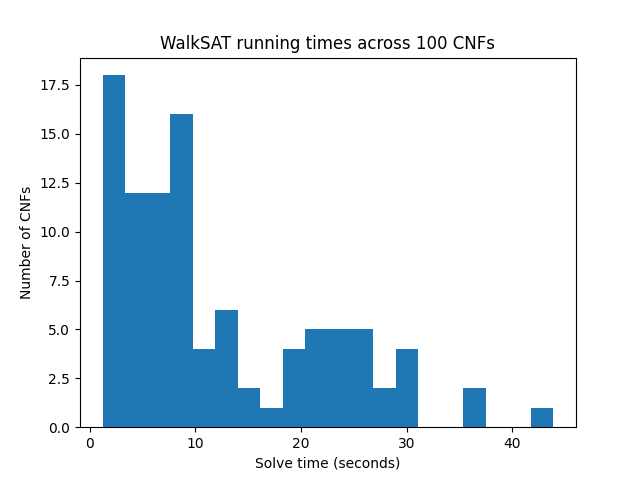
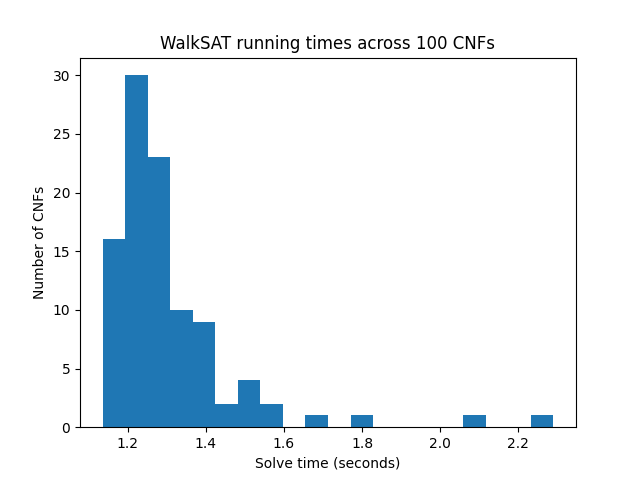
partner 1: upgraded_robot_solver

diff --git a/upgraded_robot_solver.py b/upgraded_robot_solver.py
@@ -1,0 +1,102 @@
+import sys
+import random
+
+# read file
+def parse_cnf(path):
+    num_vars = num_clauses = 0
+    clauses = []
+
+    with open(path) as f:
+        for line in f:
+            line = line.strip()
+            if not line or line.startswith("c"):
+                continue
+            if line.startswith("p"):
+                _, _, v, c = line.split()
+                num_vars = int(v)
+                num_clauses = int(c)
+                continue
+            temp_clauses = [int(x) for x in line.split()]
+            assert temp_clauses[-1] == 0, "line does not end in 0"
+            clauses.append(temp_clauses[:-1])
+    assert len(clauses) == num_clauses, "unequal clauses from header"
+
+    occurences = [[] for _ in range(num_vars + 1)]
+    for i, clause in enumerate(clauses):
+        for lit in clause:
+            occurences[abs(lit)].append(i)
+
+    return num_vars, clauses, occurences
+
+# verify CNF solution
+def walksat(num_vars, clauses, occurences, p=0.1, max_flips=1000000):
+    assignment = [False] + [random.random() < 0.5 for _ in range(num_vars)]
+
+    # Checks singular literal can be satisfied
+    def lit_true(lit):
+        return assignment[abs(lit)] == (lit > 0)
+
+    true_count = [sum(lit_true(l) for l in c) for c in clauses]
+    unsat = {i for i, t in enumerate(true_count) if t == 0}
+
+    # Part 2 making flips "smarter" 
+    def gain(var):
+        g = 0
+        for i in occurences[var]:
+            lit = var if var in clauses[i] else -var
+            if lit_true(lit):
+                if true_count[i] == 1:
+                    g -= 1
+            else:
+                if true_count[i] == 0:
+                    g += 1
+        return g
+    
+    # changes the vars around
+    def flip(var):
+        assignment[var] = not assignment[var]
+        for i in occurences[var]:
+            lit = var if var in clauses[i] else -var
+            if lit_true(lit):
+                true_count[i] += 1
+                if true_count[i] == 1:
+                    unsat.discard(i)
+            else:
+                true_count[i] -= 1
+                if true_count[i] == 0:
+                    unsat.add(i)
+
+    for _ in range(max_flips):
+        if not unsat:
+            return assignment #solved
+        clause = clauses[random.choice(tuple(unsat))]
+        if random.random() < p:
+            var = abs(random.choice(clause))
+        else:
+            variables = [abs(l) for l in clause]
+            scores = [gain(v) for v in variables]
+            best = max(scores)
+            var = random.choice([v for v, s in zip(variables, scores) if s == best])
+        flip(var)
+
+    return None #failed(timed out)
+
+def main():
+    if len(sys.argv) != 2:
+        print("no file asked")
+        sys.exit(1)
+
+    path = sys.argv[1]
+    num_vars, clauses, occurences = parse_cnf(path)
+    result = walksat(num_vars, clauses, occurences)
+
+    if result is None: 
+        print("timed out")
+        return
+
+    print("success")
+    for i in range(1, num_vars + 1):
+        print(f"x{i} = {result[i]}")
+
+if __name__ == "__main__":
+    main()

diff --git a/sweep_prob.py b/sweep_prob.py
@@ -1,0 +1,39 @@
+import glob
+import time
+import csv
+import statistics
+import matplotlib.pyplot as plt
+from upgraded_robot_solver import parse_cnf, walksat
+
+P_VALUES = [0.0, 0.05, 0.1, 0.2, 0.3, 0.4, 0.5, 0.6, 0.8, 1.0]
+RUNS_PER_FILE = 3
+MAX_FLIPS = 20000
+
+paths = sorted(glob.glob("problems/*.cnf"))
+cnfs = [parse_cnf(p) for p in paths]
+print(f"{len(paths)} files")
+
+rows = [] #metrics
+for p in P_VALUES:
+    times, timeouts = [], 0
+    for nv, cl, occ in cnfs:
+        start = time.perf_counter()
+        result = walksat(nv, cl, occ, p=p, max_flips=MAX_FLIPS)
+        times.append(time.perf_counter() - start)
+        if result is None:
+            timeouts += 1
+    mean_t = statistics.mean(times)
+    rows.append((p, mean_t, timeouts, len(times)))
+    print(f"p={p:.2f}: mean {mean_t:.3f}s, timeouts {timeouts}/{len(times)}")
+
+with open("p_sweep.csv", "w", newline="") as f:
+    w = csv.writer(f)
+    w.writerow(["p", "mean_seconds", "timeouts", "runs"])
+    w.writerows(rows)
+
+plt.plot([r[0] for r in rows], [r[1] for r in rows], marker="o")
+plt.xlabel("p (probability of a random move)")
+plt.ylabel("Mean running time (seconds)")
+plt.title("Running time vs. p")
+plt.savefig("sweep_prob.png", dpi=150)
+plt.show()

diff --git a/benchmark.py b/benchmark.py
@@ -3,7 +3,7 @@ import time
 import csv
 import statistics
 import matplotlib.pyplot as plt
-from robot_solver import parse_cnf, walksat
+from upgraded_robot_solver import parse_cnf, walksat
 
 paths = sorted(glob.glob("problems/*.cnf"))
 print(f"found files")
